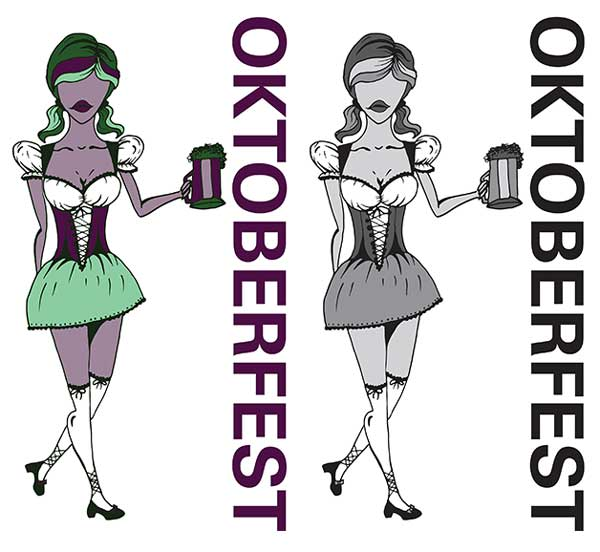
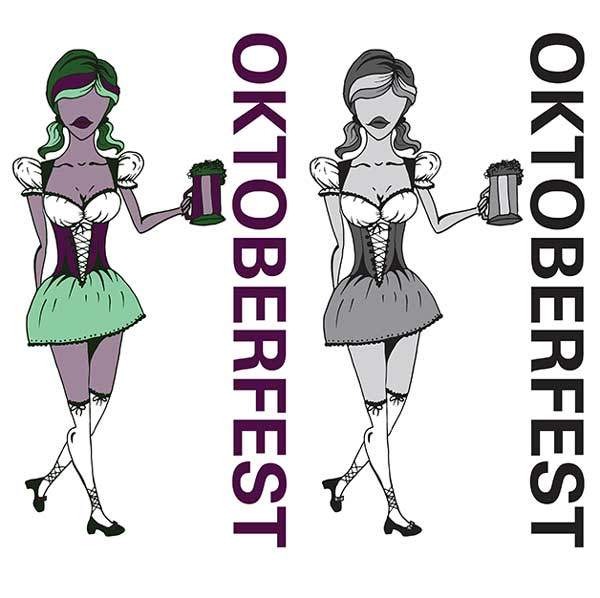
added poster design for October fest to illustration page

diff --git a/illustration.html b/illustration.html
@@ -27,4 +27,15 @@ layout: default
       <img class="used-program-icon" src="{{site.baseurl}}/images/illustrator.svg" alt="Adobe Illustrator icon so show Illustrator was used">
     </div>
   </div>
+
+  <div class="portfolio-figure grid">
+    <div class="unit xs-1 s-1 m-1-2 l-1-2 xl-1-2">
+      <img class="img-flex max-img" src="{{site.baseurl}}/images/oktoberfest.jpg/" alt="Bar Wench illustration holding a beer, with title of Oktoberfest, both colour and black and white">
+    </div>
+    <div class="island-half unit xs-1 s-1 m-1-2 l-1-2 xl-1-2">
+      <h3>Poster Design: Oktoberfest</h3>
+      <p>This is a stylized rendering of my dearly deceased cat. It is done in adobe illustrator using handpainted strokes in the brushes panel.</p>
+      <img class="used-program-icon" src="{{site.baseurl}}/images/illustrator.svg" alt="Adobe Illustrator icon so show Illustrator was used">
+    </div>
+  </div>
 </main>
